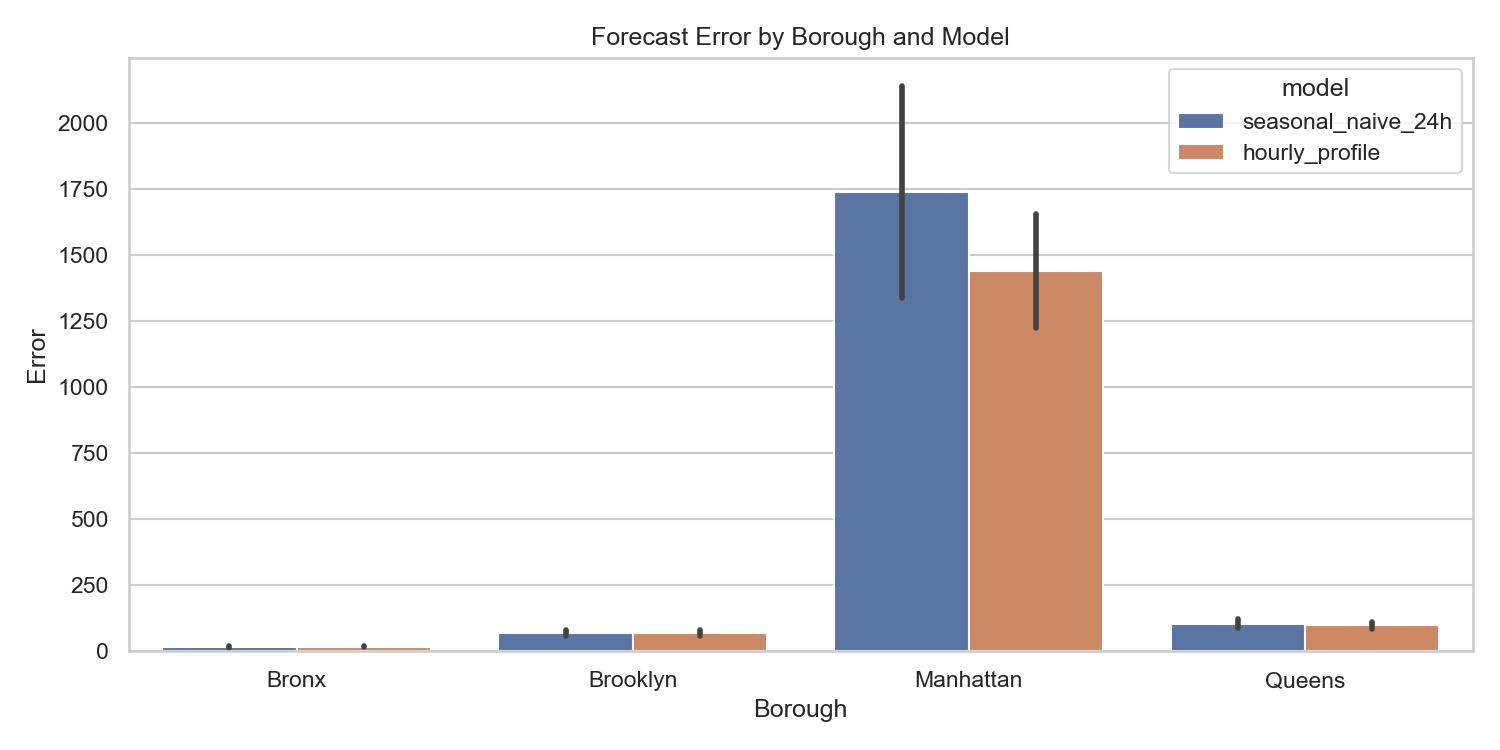
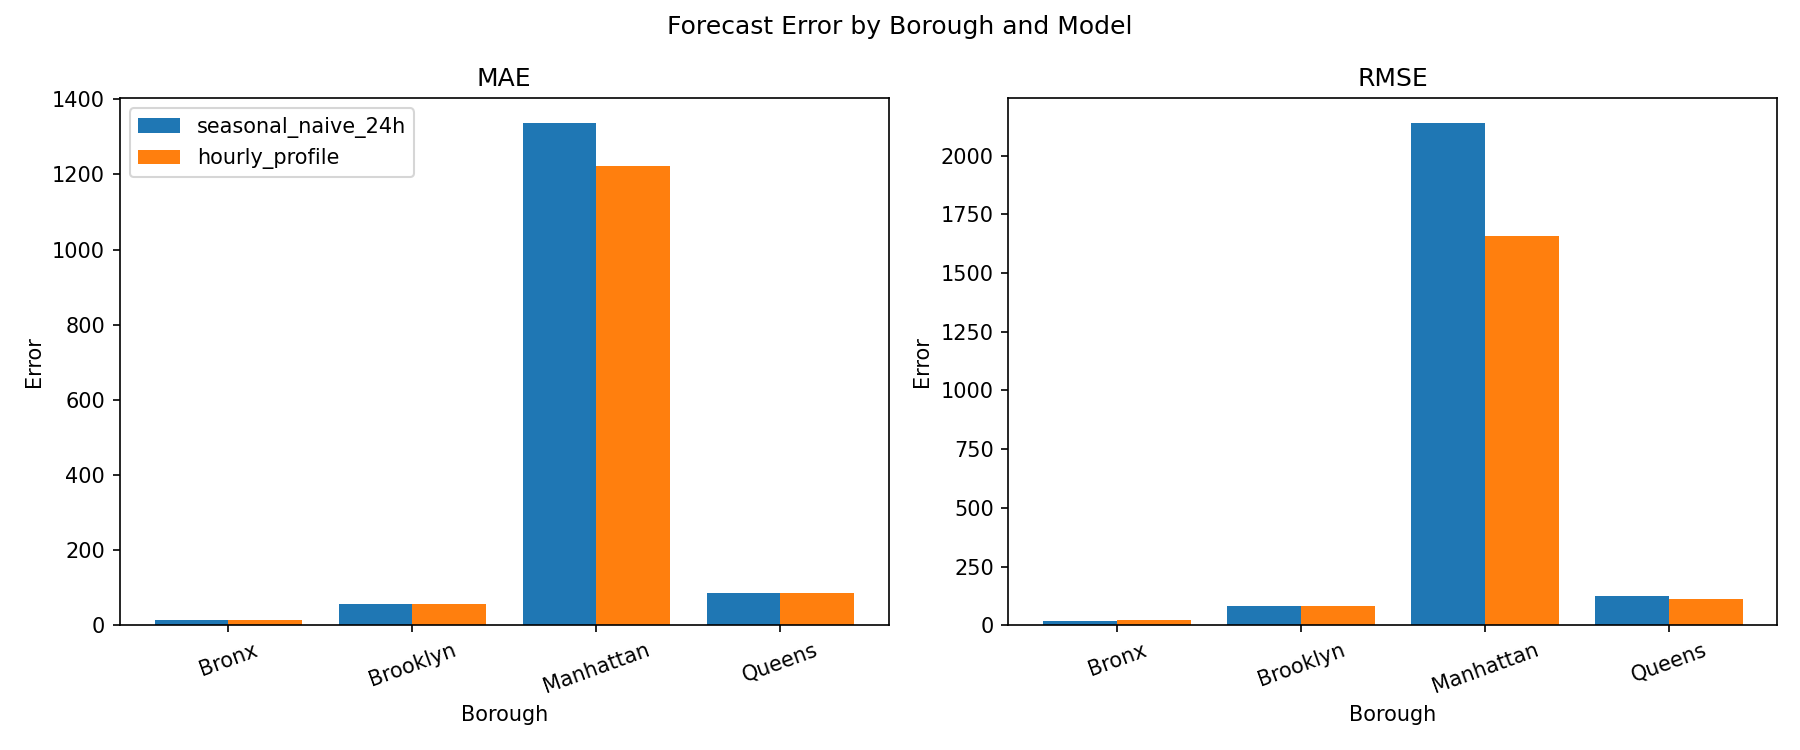
Remove seaborn dependency for local reproducibility

diff --git a/src/orie5270_project/cli.py b/src/orie5270_project/cli.py
@@ -13,7 +13,6 @@ from pathlib import Path
 
 import matplotlib.pyplot as plt
 import pandas as pd
-import seaborn as sns
 
 from .metrics import mae, rmse
 from .taxi import (
@@ -37,17 +36,32 @@ def _project_root() -> Path:
 
 
 def _save_metric_plot(metrics_frame: pd.DataFrame, output_path: Path) -> None:
-    melted = metrics_frame.melt(
-        id_vars=["borough", "model"],
-        value_vars=["mae", "rmse"],
-        var_name="metric",
-        value_name="value",
-    )
-    figure, axis = plt.subplots(figsize=(10, 5))
-    sns.barplot(data=melted, x="borough", y="value", hue="model", ax=axis)
-    axis.set_title("Forecast Error by Borough and Model")
-    axis.set_xlabel("Borough")
-    axis.set_ylabel("Error")
+    figure, axes = plt.subplots(1, 2, figsize=(12, 5), sharex=True)
+    models = list(metrics_frame["model"].drop_duplicates())
+    boroughs = list(metrics_frame["borough"].drop_duplicates())
+    width = 0.8 / max(1, len(models))
+    x_positions = range(len(boroughs))
+
+    for axis, metric in zip(axes, ["mae", "rmse"]):
+        for index, model in enumerate(models):
+            values = []
+            for borough in boroughs:
+                subset = metrics_frame[
+                    (metrics_frame["borough"] == borough)
+                    & (metrics_frame["model"] == model)
+                ]
+                values.append(float(subset[metric].iloc[0]))
+            offsets = [
+                position + (index - (len(models) - 1) / 2) * width
+                for position in x_positions
+            ]
+            axis.bar(offsets, values, width=width, label=model)
+        axis.set_title(metric.upper())
+        axis.set_xlabel("Borough")
+        axis.set_ylabel("Error")
+        axis.set_xticks(list(x_positions), boroughs, rotation=20)
+    axes[0].legend()
+    figure.suptitle("Forecast Error by Borough and Model")
     figure.tight_layout()
     figure.savefig(output_path, dpi=150)
     plt.close(figure)
@@ -89,7 +103,12 @@ def _score(
 
 def run_taxi_analysis() -> None:
     """End-to-end pipeline: read parquet -> hourly demand -> baselines -> outputs."""
-    sns.set_theme(style="whitegrid")
+    plot_style = (
+        "seaborn-v0_8-whitegrid"
+        if "seaborn-v0_8-whitegrid" in plt.style.available
+        else "default"
+    )
+    plt.style.use(plot_style)
 
     root = _project_root()
     data_dir = root / "data"
